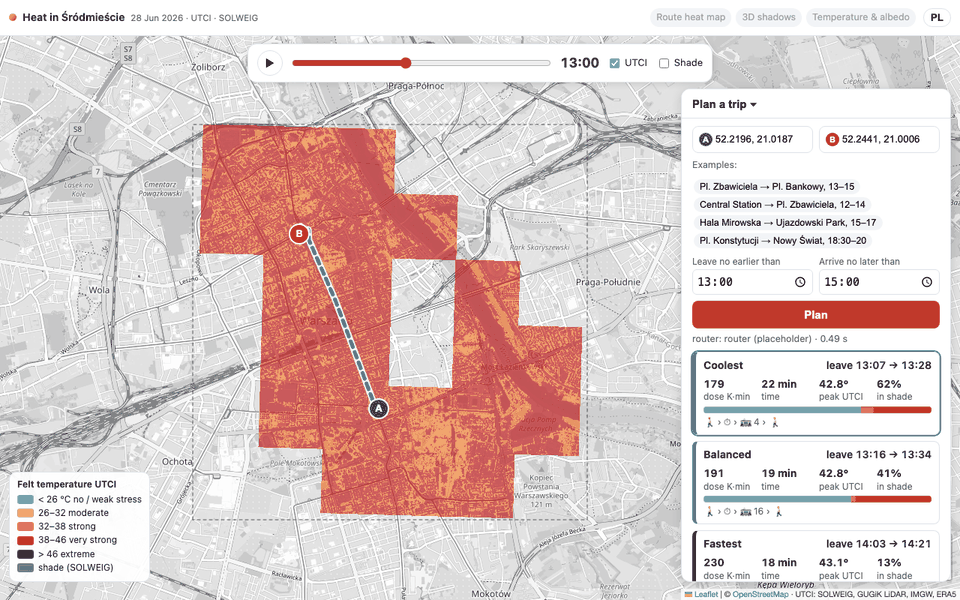
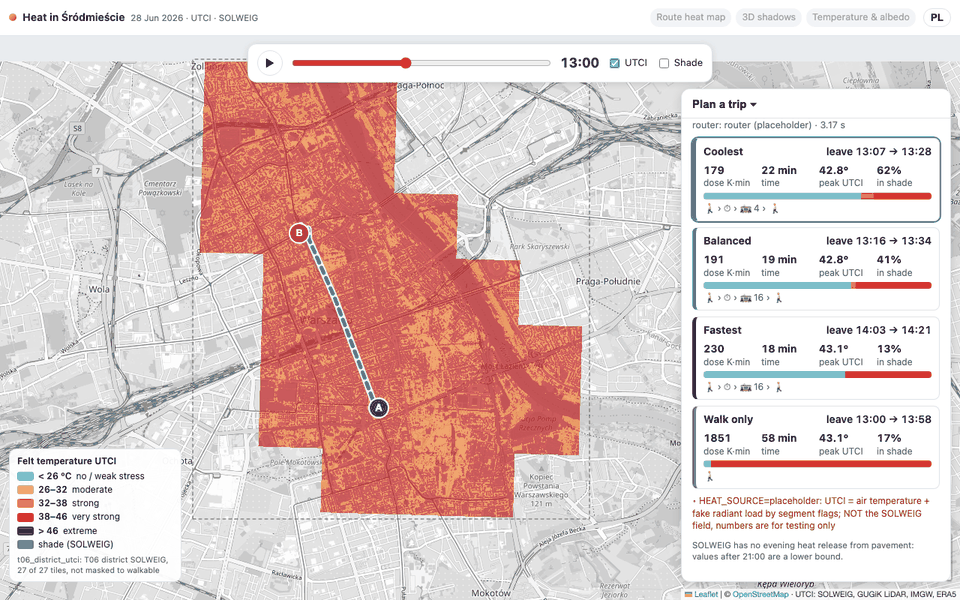
T10: district frames (27 tiles), phone legend, T07 point-query support, report with screenshots

diff --git a/app/server/static/app.js b/app/server/static/app.js
@@ -122,6 +122,7 @@ function applyLang() {
 }
 $("#lang").addEventListener("click", () => { lang = lang === "pl" ? "en" : "pl"; applyLang(); });
 $("#panel-toggle").addEventListener("click", () => $("#panel").classList.toggle("open"));
+$("#legend").addEventListener("click", () => $("#legend").classList.toggle("mini"));
 
 // ---------------------------------------------------------------- picking
 const pts = {o: null, d: null}, marks = {o: null, d: null};
@@ -244,7 +245,7 @@ function drawOption(o, sel) {
 
 // ---------------------------------------------------------------- boot
 (async () => {
-  applyLang(); if (innerWidth < 640) $("#panel").classList.remove("open");
+  applyLang(); if (innerWidth < 640) { $("#panel").classList.remove("open"); $("#legend").classList.add("mini"); }
   try {
     const p = new URLSearchParams(); if (q.get("utci")) p.set("utci", q.get("utci")); if (q.get("shade")) p.set("shade", q.get("shade"));
     CFG = await (await fetch(`/api/config?${p}`)).json();
@@ -253,6 +254,7 @@ function drawOption(o, sel) {
       L.rectangle([[b[1], b[0]], [b[3], b[2]]], {color: "#555", weight: 1, dashArray: "4 4", fill: false, interactive: false}).addTo(map);
       if (!q.get("z")) map.fitBounds([[b[1], b[0]], [b[3], b[2]]], {paddingTopLeft: [0, 60], paddingBottomRight: innerWidth > 640 ? [380, 0] : [0, innerHeight * 0.3]});
     }
+    $("#lg-src").textContent = CFG.utci?.meta ? `${CFG.utci.source}: ${CFG.utci.meta.note || ""}` : "no frames";
     if (q.get("shadeOn") === "1") $("#tg-shade").checked = true;
   } catch (e) { console.error(e); }
   renderNav(); showStep(step);

diff --git a/app/server/static/style.css b/app/server/static/style.css
@@ -19,6 +19,11 @@ html,body{margin:0;height:100%;font:14px/1.35 system-ui,-apple-system,"Segoe UI"
 .toggles label{display:flex;align-items:center;gap:4px;cursor:pointer}
 #legend{position:fixed;left:12px;bottom:24px;z-index:900;background:rgba(255,255,255,.95);border:1px solid var(--line);border-radius:10px;padding:8px 10px;font-size:12px;max-width:230px}
 .lg-title{font-weight:650;margin-bottom:4px}
+#lg-src{color:#5d6575;font-size:10.5px;margin-top:4px}
+#legend{cursor:pointer}
+#legend.mini .lg-row .rng,#legend.mini .lg-row .desc,#legend.mini .lg-shade,#legend.mini #lg-src,#legend.mini .lg-title{display:none}
+#legend.mini .lg-row{margin:0}
+#legend.mini .sw{width:14px;height:10px}
 .lg-row,.lg-shade{display:flex;align-items:center;gap:6px;margin:2px 0}
 .lg-row .rng{font-weight:600;font-variant-numeric:tabular-nums;white-space:nowrap}
 .sw{width:22px;height:12px;border-radius:3px;flex:none}
@@ -69,6 +74,7 @@ html,body{overflow:hidden;max-width:100vw}
   #legend{top:150px;bottom:auto;left:8px;padding:5px 7px;font-size:11px;max-width:150px}
   #legend .lg-title{display:none}
   #legend .desc{display:none}
+  #lg-src{display:none}
   .brand{font-size:13px}
   #panel{left:0;right:0;top:auto;bottom:0;width:auto;max-height:52vh;border-radius:14px 14px 0 0}
   #panel:not(.open){bottom:0}

diff --git a/app/server/static/index.html b/app/server/static/index.html
@@ -29,6 +29,7 @@
   <div class="lg-title" data-i18n="legend">Odczuwalna temperatura UTCI</div>
   <div id="lg-rows"></div>
   <div class="lg-shade"><span class="sw shade"></span><span data-i18n="shadeLegend">cień (SOLWEIG)</span></div>
+  <div id="lg-src"></div>
 </aside>
 
 <aside id="panel" class="open">

diff --git a/app/server/main.py b/app/server/main.py
@@ -181,6 +181,8 @@ def _sample(uri_t: str, x: float, y: float):
             if not (0 <= r < d.height and 0 <= c < d.width):
                 return None
             v = d.read(window=((r, r + 1), (c, c + 1)))[:, 0, 0]
+            if d.dtypes[0] == "uint8":  # T07 sun_solweig.tif: share x 250, 255 = nodata
+                return [None if int(v_) == 255 else round(int(v_) / 250, 3) for v_ in v]
     return [None if v_ != v_ else round(float(v_), 2) for v_ in v]
 
 

diff --git a/app/README.md b/app/README.md
@@ -40,7 +40,7 @@ Sources rendered so far:
 | source | input |
 |---|---|
 | `pilot_utci`, `pilot_shadow` | `T06/cog/{utci,shadow}_solweig.tif` (pilot 1.2 × 0.8 km) |
-| `t06_district_utci`, `t06_district_shadow` | `T06/district/tiles/*/{utci,shadow}.tif` (tiles present at render time, see `meta.json` note) |
+| `t06_district_utci`, `t06_district_shadow` | `T06/district/tiles/*/{utci,shadow}.tif`, all 27 tiles (live now) |
 
 ### Rerun on T07 (integration)
 
@@ -51,13 +51,16 @@ IMG=europe-central2-docker.pkg.dev/hackaton-honory/hackathon/t10-render:latest
 #   (cd app/render && gcloud builds submit --tag $IMG --region europe-central2 .)
 gcloud run jobs deploy t10-render-t07-utci --image $IMG --region europe-central2 \
   --cpu 4 --memory 12Gi --tasks 6 --parallelism 1 --max-retries 2 --task-timeout 3600 \
-  --set-env-vars '^@^RENDER_INPUT=gs://hackaton-honory-heat/T07/<utci 33-band COG>.tif@RENDER_KIND=utci@RENDER_SOURCE=t07_utci@RENDER_NOTE=T07 UTCI walkable' \
+  --set-env-vars '^@^RENDER_INPUT=gs://hackaton-honory-heat/T07/utci.tif@RENDER_KIND=utci@RENDER_SOURCE=t07_utci@RENDER_NOTE=T07 UTCI walkable' \
   --execute-now
-# shade from the T06 district COG / tiles (same source as the UTCI):
-#   RENDER_INPUT=gs://hackaton-honory-heat/T06/district/tiles/*/shadow.tif  RENDER_KIND=shadow  RENDER_SOURCE=t06_district_shadow
+# shade from T07 (uint8 x 250, 255 = nodata; handled by the renderer):
+#   RENDER_INPUT=gs://hackaton-honory-heat/T07/sun_solweig.tif  RENDER_KIND=shadow  RENDER_SOURCE=t07_shade
 ```
 
-Raise `--parallelism` once other jobs free the region (quota 40 GiB per region: parallelism × memory must fit).
+Raise `--parallelism` once other jobs free the region (quota 40 GiB per region: parallelism × memory must fit, **and
+the heat-app service's memory counts against the same regional quota**: a new revision cannot start while jobs hold
+all 40 GiB). Render only from a finished input set: the glob is expanded per task, so tiles arriving mid-run give
+steps with different coverage.
 A district pass takes ~10 s per step per task plus ~30 s of download (6000 × 6000 px tiles input).
 Locally (small inputs only): `python app/render/render_frames.py --input <cog> --kind utci --source test --out /tmp/frames --steps 14`.
 
@@ -85,8 +88,8 @@ From the **repo root** (so router/ is included):
 source ~/warsaw-open-data/.envrc; export CLOUDSDK_CORE_ACCOUNT=teatr.sgh@gmail.com
 gcloud builds submit --config app/cloudbuild.yaml --ignore-file=app/.gcloudignore --region europe-central2 .
 gcloud run deploy heat-app --image europe-central2-docker.pkg.dev/hackaton-honory/hackathon/heat-app:latest \
-  --region europe-central2 --allow-unauthenticated --cpu 2 --memory 4Gi --min-instances 1 --max-instances 4 \
-  --update-env-vars 'HEAT_SOURCE=final,UTCI_FRAMES=t07_utci,SHADE_FRAMES=t06_district_shadow,HEAT_VIEWS_URL=https://heat-views-<...>.run.app'
+  --region europe-central2 --allow-unauthenticated --cpu 2 --memory 2Gi --min-instances 1 --max-instances 3 \
+  --update-env-vars 'HEAT_SOURCE=final,UTCI_FRAMES=t07_utci,SHADE_FRAMES=t07_shade,UTCI_COG=gs://hackaton-honory-heat/T07/utci.tif,SHADOW_COG=gs://hackaton-honory-heat/T07/sun_solweig.tif,HEAT_VIEWS_URL=https://heat-views-<...>.run.app'
 ```
 
 If router/ needs more memory for its data, raise `--memory` (up to 32 GiB) and `--cpu`. router/requirements.txt, if

diff --git a/reports/T10/README.md b/reports/T10/README.md
@@ -15,9 +15,9 @@ Frame sources rendered:
 | source | input | what it is |
 |---|---|---|
 | `pilot_utci`, `pilot_shadow` | `T06/cog/{utci,shadow}_solweig.tif` | T06 pilot, 1.2 × 0.8 km |
-| `t06_district_utci`, `t06_district_shadow` | `T06/district/tiles/*/{utci,shadow}.tif` | T06 district SOLWEIG tiles, _TILES_ of 27 at render time; not masked to walkable space |
+| `t06_district_utci`, `t06_district_shadow` | `T06/district/tiles/*/{utci,shadow}.tif` | T06 district SOLWEIG tiles, all 27 (re-rendered 02:31 UTC once T06 finished); not masked to walkable space. 1,165 tiles per step, 38,445 in all |
 
-The app currently shows **`_SOURCE_`**. When T07 lands, integration renders `t07_utci` (and the shade from T07's
+The app currently shows **`t06_district_utci` + `t06_district_shadow`** (point queries read `T06/district/tiles/{e}_{n}/`). When T07 lands, integration renders `t07_utci` (and the shade from T07's
 `sun_solweig.tif`, which the renderer reads too: uint8 × 250, 255 = nodata) and redeploys with `UTCI_FRAMES=t07_utci`;
 the commands are in `app/README.md`.
 
@@ -51,7 +51,11 @@ the commands are in `app/README.md`.
 - The SOLWEIG limit (no evening heat release from pavement; values after 21:00 are a lower bound) is stated under the
   planner in both languages, and the slider label at 21:00–22:00 has a "night" tooltip.
 
-![phone](phone_plan.png) ![map](desktop_map_1200.png)
+![phone](phone_plan.png)
+
+Evening (19:30, shade on): long shadows, coolest option rides two trams to stay out of the low sun.
+
+![evening](desktop_evening_shade.png)
 
 ## Decisions
 
@@ -77,6 +81,14 @@ the commands are in `app/README.md`.
   `/api/health`.
 
 ## Learned
+
+- **District median UTCI (T06 field, all ground pixels) peaks at 43.5 °C at 15:30**; it crosses 26 °C at 08:00, 32 °C
+  at 09:00 (the jump 29.2 → 35.2 °C between 09:00 and 09:30 is the sun clearing the street canyons) and 38 °C at
+  11:00, and stays above 32 °C until 20:30. At 22:00 it is still 28 °C (and a lower bound).
+- **Region quota is shared between jobs and services.** With two render jobs holding 40 GiB in europe-central2, a
+  heat-app revision failed to start ("Quota exceeded for total allowable memory per project per region"); the old
+  revision kept serving. heat-app now runs at 2 GiB × max 3 instances. During the demo, keep heavy jobs out of
+  europe-central2.
 
 - At 13:00 almost every sunlit pixel of the district is in *very strong* stress (38–46 °C) and almost every shaded
   pixel in *strong* (32–38 °C): the map is a two-colour picture whose pattern is the shade. The lightness ramp inside
